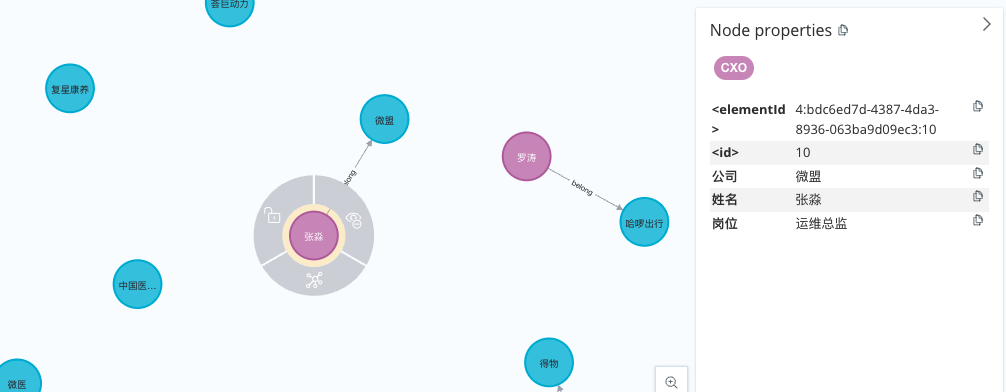
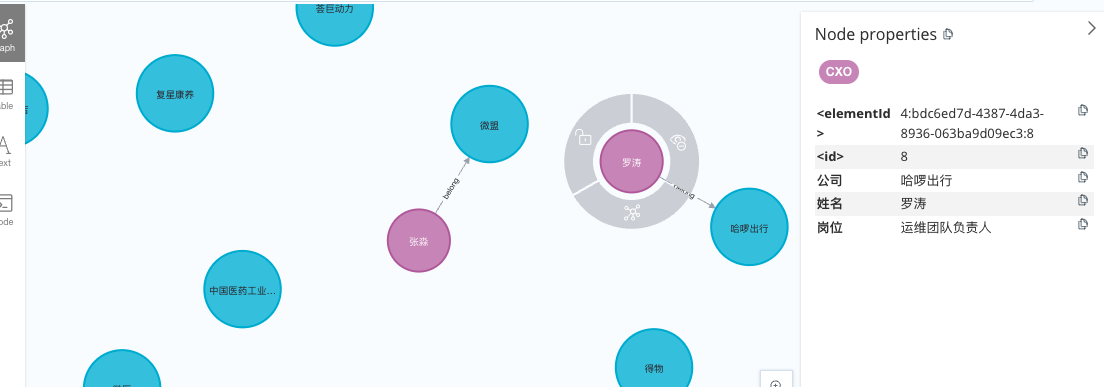
add cxo

diff --git a/README.md b/README.md
@@ -1,5 +1,5 @@
 # KGData
-你的star就是我更新的动力 
+## 你的⭐我更新的动力 
 各个行业知识图谱分享，关系抽取，数据清洗，提供 neo4j 批量导入格式，图片不出来的看这里：https://www.jianshu.com/p/25e5e07b2464
  
  __Menu__
